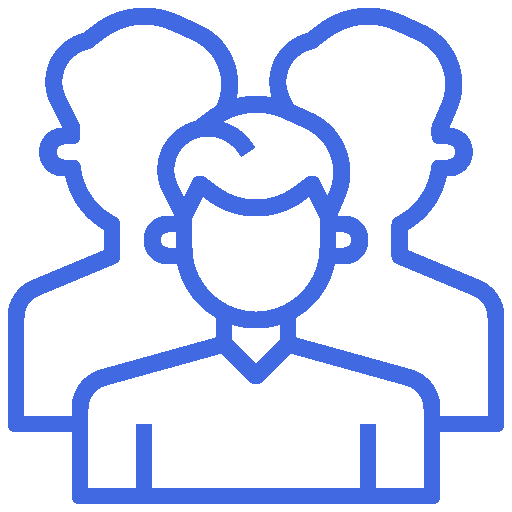
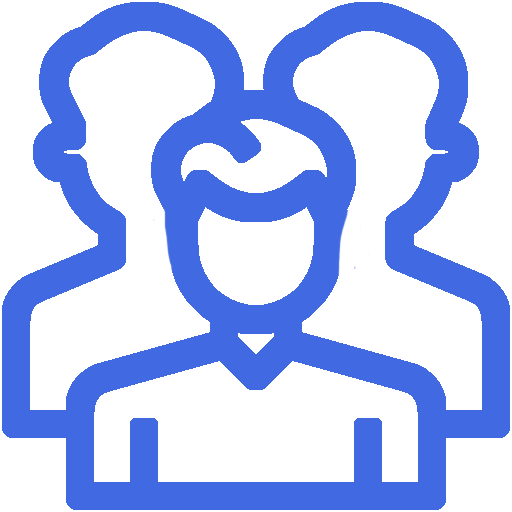
minor design fix
- Fixed icon sizes (for all styles)
- Increased settings button
- Minor code optimization
- Changing the design of the authorization window, removing the inscriptions "login" and "password"
- Comment

diff --git a/src/mainwindow.cpp b/src/mainwindow.cpp
@@ -146,10 +146,10 @@ void MainWindow::mainWindowInit()
 
     // ИЛИ ТУТ УСЛОВИЕ ПРОВЕРКИ АВТОРИЗАЦИИ РАНЕЕ
 
-    setEnabledButtons(false);  // <- для абьюзинга системы ставь true
-    setEnabledActions(false);  // <- и это тоже))
+    setEnabledButtons(true);  // <- для абьюзинга системы ставь true
+    setEnabledActions(true);  // <- и это тоже))
 
-    //succesfullyAuthorization("xui"); <- абьюз для девелоперов
+    succesfullyAuthorization("xui");// <- абьюз для девелоперов
 
     //Чекни кста как на светлом синий, на темном прям имба, а на светлом внешне хз
 
@@ -161,6 +161,12 @@ void MainWindow::mainWindowInit()
     // на счёт миджорней, я хз, по-моему уже не плохая иконка, показывает что база данных и что связанная с студентами,
     // и главное минималистик
     // за фруитлуп не шарю вообще, только ФЛ студио находит xD
+
+    // Ок, значит такую оставим. Да, я про фл студио, там прикольно перец появляется. Можно что-то в этом роде сделать.
+    // Просто появление лого, как вариант. Надо потестить, заодно проверим насколько мой мак плох с прозрачностью.
+
+    // Окей, постараюсь найти пример загрузки ФЛ студио, анимацию конечно хотелось бы по прикольнее чем
+    //в канце, и ещё нужно фиксануть углы прелоадера, а то они круглые но не очень
 
     // TEST!!
     ui->tempButton_2->setEnabled(false);
@@ -264,6 +270,7 @@ void MainWindow::on_studentsTableButton_clicked()
      * Код реализации открытия таблицы студентов
      *
     */
+    setWindowTitle("Gradify - (Студенти)");
     model->setTable("Студенти");
     model->select();
     selectTable = 0;
@@ -281,8 +288,6 @@ void MainWindow::on_studentsTableButton_clicked()
     {
         ui->studentsTableButton->setIcon(QIcon(":/img/blackMenuIcon/studenstIco.png"));
     }
-
-    setWindowTitle("Gradify - (Студенти)");
 }
 
 
@@ -293,7 +298,7 @@ void MainWindow::on_teachersTableButton_clicked()
      * Код реализации открытия таблицы преподавателей
      *
     */
-
+    setWindowTitle("Gradify - (Викладачі)");
     model->setTable("Викладачі");
     model->select();
     selectTable = 1;
@@ -311,8 +316,6 @@ void MainWindow::on_teachersTableButton_clicked()
     {
         ui->teachersTableButton->setIcon(QIcon(":/img/blackMenuIcon/teachersIco.png"));
     }
-
-    setWindowTitle("Gradify - (Викладачі)");
 }
 
 
@@ -326,11 +329,11 @@ void MainWindow::on_gradesTableButton_clicked()
      *                                              с длиной колонк (последняя колонка не до
      *                                              конца растянута)
     */
+    setWindowTitle("Gradify - (Оцінки)");
     model->setTable("Оцінки");
     model->select();
     selectTable = 2;
     ui->tableView->setModel(model);
-
 
     clearStyleButtonTable();
     ui->gradesTableButton->setStyleSheet(selectButtonTableStyle);
@@ -343,8 +346,6 @@ void MainWindow::on_gradesTableButton_clicked()
     {
         ui->gradesTableButton->setIcon(QIcon(":/img/blackMenuIcon/raitingIco.png"));
     }
-
-    setWindowTitle("Gradify - (Оцінки)");
 }
 
 
@@ -355,6 +356,7 @@ void MainWindow::on_groupsTableButton_clicked()
      * Код реализации открытия таблицы групп
      *
     */
+    setWindowTitle("Gradify - (Групи)");
     model->setTable("Групи");
     model->select();
     selectTable = 3;
@@ -363,6 +365,7 @@ void MainWindow::on_groupsTableButton_clicked()
 
     clearStyleButtonTable();
     ui->groupsTableButton->setStyleSheet(selectButtonTableStyle);
+
     if (config["theme"] == "white")
     {
         ui->groupsTableButton->setIcon(QIcon(":/img/whiteMenuIcon/groupIco.png"));
@@ -371,8 +374,6 @@ void MainWindow::on_groupsTableButton_clicked()
     {
         ui->groupsTableButton->setIcon(QIcon(":/img/blackMenuIcon/groupIco.png"));
     }
-
-    setWindowTitle("Gradify - (Групи)");
 }
 
 
@@ -383,6 +384,7 @@ void MainWindow::on_subjectsTableButton_clicked()
      * Код реализации открытия таблицы предметы
      *
     */
+    setWindowTitle("Gradify - (Предмети)");
     model->setTable("Предмет");
     model->select();
     selectTable = 4;
@@ -399,8 +401,6 @@ void MainWindow::on_subjectsTableButton_clicked()
     {
         ui->subjectsTableButton->setIcon(QIcon(":/img/blackMenuIcon/subjectIco.png"));
     }
-
-    setWindowTitle("Gradify - (Предмети)");
 }
 
 
@@ -642,18 +642,7 @@ void MainWindow::setBlackUI()
     selectButtonTableStyle = styleF.readAll();
     styleF.close();
 
-    QPalette basePalette;
-    QColor baseColor = basePalette.base().color();
-    QColor newBase = QColor::fromRgbF(1 - baseColor.redF(), 1 - baseColor.greenF(), 1 - baseColor.blueF());
-
-    if (newBase.name() == "#000000")
-    {
-        setBlackIconAction();
-    }
-    else
-    {
-        setWhiteIconAction();
-    }
+    setCurrentIconAction();
 
     switch (selectTable)
     {
@@ -699,18 +688,7 @@ void MainWindow::setWhiteUI()
     selectButtonTableStyle = QLatin1String(file.readAll());
     file.close();
 
-    QPalette basePalette;
-    QColor baseColor = basePalette.base().color();
-    QColor newBase = QColor::fromRgbF(1 - baseColor.redF(), 1 - baseColor.greenF(), 1 - baseColor.blueF());
-
-    if (newBase.name() == "#000000")
-    {
-        setBlackIconAction();
-    }
-    else
-    {
-        setWhiteIconAction();
-    }
+    setCurrentIconAction();
 
     switch (selectTable)
     {
@@ -747,31 +725,36 @@ void MainWindow::setSystemUI()
     if (newBase.name() == "#000000")
     {
         setWhiteUI();
-        setBlackIconAction();
     }
     else
     {
         setBlackUI();
-        setWhiteIconAction();
     }
 }
 
-void MainWindow::setBlackIconAction()
-{
-    ui->openStudTabAction->setIcon(QIcon(":/img/blackMenuIcon/studenstIco.png"));
-    ui->openTeachTabAction->setIcon(QIcon(":/img/blackMenuIcon/teachersIco.png"));
-    ui->openGradesTabAction->setIcon(QIcon(":/img/blackMenuIcon/raitingIco.png"));
-    ui->openGroupTabAction->setIcon(QIcon(":/img/blackMenuIcon/groupIco.png"));
-    ui->openSubjTabAction->setIcon(QIcon(":/img/blackMenuIcon/subjectIco.png"));
-}
 
-void MainWindow::setWhiteIconAction()
+void MainWindow::setCurrentIconAction()
 {
-    ui->openStudTabAction->setIcon(QIcon(":/img/whiteMenuIcon/studentsIco.png"));
-    ui->openTeachTabAction->setIcon(QIcon(":/img/whiteMenuIcon/teachersIco.png"));
-    ui->openGradesTabAction->setIcon(QIcon(":/img/whiteMenuIcon/raitingIco.png"));
-    ui->openGroupTabAction->setIcon(QIcon(":/img/whiteMenuIcon/groupIco.png"));
-    ui->openSubjTabAction->setIcon(QIcon(":/img/whiteMenuIcon/subjectIco.png"));
+    QPalette basePalette;
+    QColor baseColor = basePalette.base().color();
+    QColor newBase = QColor::fromRgbF(1 - baseColor.redF(), 1 - baseColor.greenF(), 1 - baseColor.blueF());
+
+    if (newBase.name() == "#000000")
+    {
+        ui->openStudTabAction->setIcon(QIcon(":/img/blackMenuIcon/studenstIco.png"));
+        ui->openTeachTabAction->setIcon(QIcon(":/img/blackMenuIcon/teachersIco.png"));
+        ui->openGradesTabAction->setIcon(QIcon(":/img/blackMenuIcon/raitingIco.png"));
+        ui->openGroupTabAction->setIcon(QIcon(":/img/blackMenuIcon/groupIco.png"));
+        ui->openSubjTabAction->setIcon(QIcon(":/img/blackMenuIcon/subjectIco.png"));
+    }
+    else
+    {
+        ui->openStudTabAction->setIcon(QIcon(":/img/whiteMenuIcon/studentsIco.png"));
+        ui->openTeachTabAction->setIcon(QIcon(":/img/whiteMenuIcon/teachersIco.png"));
+        ui->openGradesTabAction->setIcon(QIcon(":/img/whiteMenuIcon/raitingIco.png"));
+        ui->openGroupTabAction->setIcon(QIcon(":/img/whiteMenuIcon/groupIco.png"));
+        ui->openSubjTabAction->setIcon(QIcon(":/img/whiteMenuIcon/subjectIco.png"));
+    }
 }
 
 

diff --git a/src/authorization.cpp b/src/authorization.cpp
@@ -25,6 +25,8 @@ authorization::authorization(QWidget *parent) :
 
     ui->authorizationErrorLabel->setVisible(false);
 
+    ui->loginLineEdit->setPlaceholderText("Логін");
+    ui->passwordLineEdit->setPlaceholderText("Пароль");
 }
 
 

diff --git a/src/mainwindow.h b/src/mainwindow.h
@@ -47,9 +47,7 @@ private slots:
 
     void setSystemUI();
 
-    void setBlackIconAction();
-
-    void setWhiteIconAction();
+    void setCurrentIconAction();
 
     void mainWindowInit();
 
